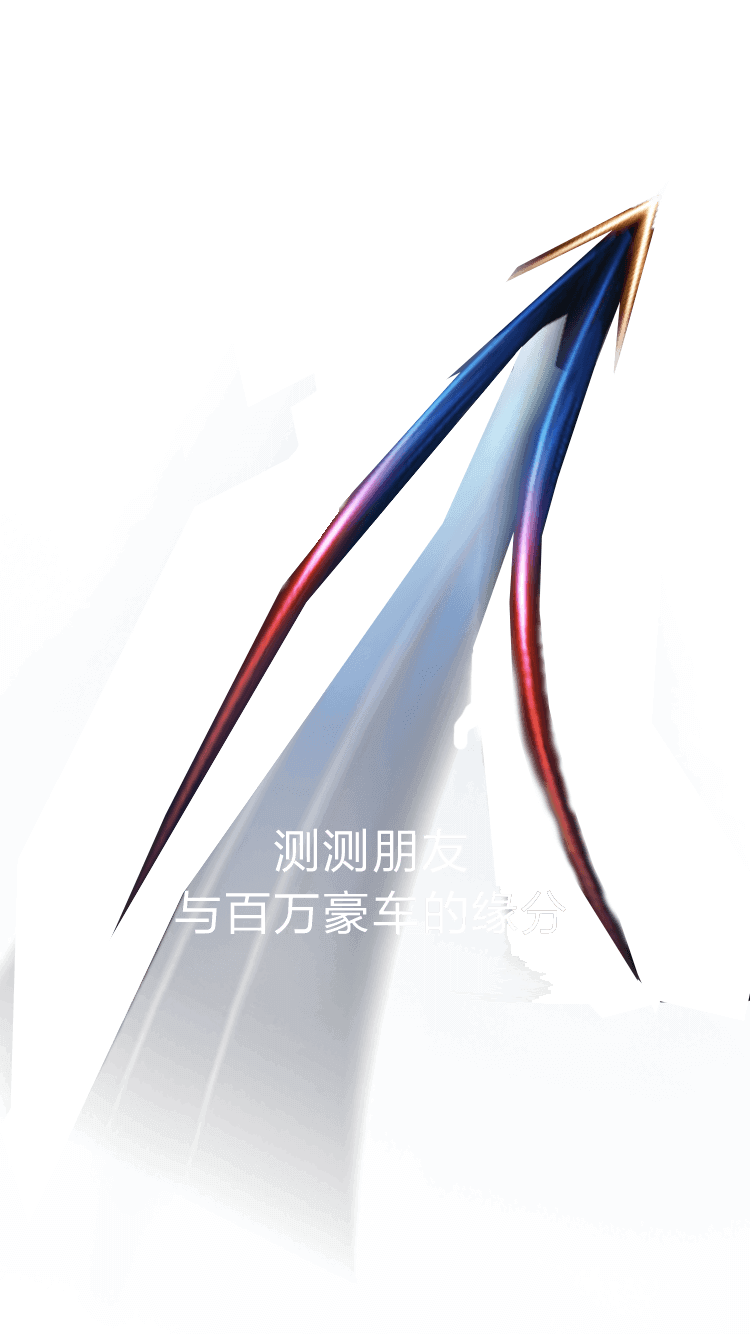
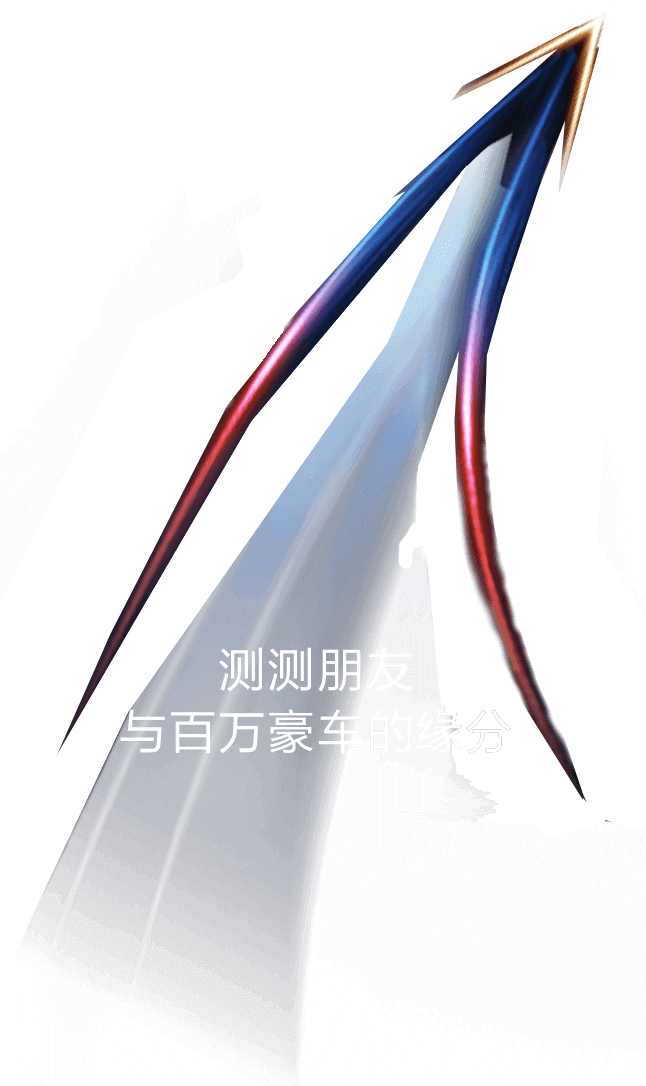
fix:胡曦优化

diff --git a/html/guanzhi/css/index.css b/html/guanzhi/css/index.css
@@ -29,7 +29,7 @@ dl,dd,dt,ul,li,ol{
 }
 
 #load{
-    background-color: gray;
+    background-color: #111;
 }
 .spinner {
     width: 100px;
@@ -227,17 +227,11 @@ dl,dd,dt,ul,li,ol{
     width:100%;height: 100%;
     background-position: center center;
     background-size:cover;
-    /* perspective: 1000px;
-    -webkit-perspective: 1000px;
-    perspective-origin:center;
-    -webkit-perspective-origin:center; */
     }.index_t1{
     position: absolute;
     left: 50%;top:50%;
     margin-left:-310px;
     margin-top:25px;
-    transform: translateZ(10px);
-    -webkit-transform: translateZ(10px);
     z-index: 101;
     }.index_t2{
     position: absolute;
@@ -245,8 +239,6 @@ dl,dd,dt,ul,li,ol{
     margin-top:220px;
     margin-left:-312px;
     z-index: 101;
-    transform: translateZ(10px);
-    -webkit-transform: translateZ(10px);
     }.index_cars{
     top:50%;
     margin-top:-116px;
@@ -256,8 +248,6 @@ dl,dd,dt,ul,li,ol{
     position: absolute;
     left: 0;bottom:10%;right:0;
     z-index: 101;
-    transform: translateZ(10px);
-    -webkit-transform: translateZ(10px);
     }.index_btn{
     display: inline-block;
     font-size: 36px;
@@ -266,21 +256,30 @@ dl,dd,dt,ul,li,ol{
     padding: 0 40px;
     border-radius: 30px;
     margin:0 50px;
-    }.index_route{
+    }.index_route_box{
         position: absolute;
-        display: none;
-        background: url(../img/route.jpg) center;
-        background-size: 100% auto;
-        /* transform-origin: 50% 0%;
-        -webkit-transform-origin: 50% 0%; */
         width: 100%;
         height: 100%;
         margin-top: -75px;
         left: 0;
         top: 50%;
+        perspective: 1000px;
+        -webkit-perspective: 1000px;
+        perspective-origin:center;
+        -webkit-perspective-origin:center;
+    }.index_route{
+        position: absolute;
+        left: 0;
+        top: 0;
+        background: url(../img/route.jpg) center;
+        background-size: 100% auto;
+        transform-origin: 50% 0%;
+        -webkit-transform-origin: 50% 0%;
+        width: 100%;
+        height: 100%;
         animation: route 2s infinite linear;
-        /* transform: rotateX(44deg);
-        -webkit-transform: rotateX(44deg); */
+        transform:rotateX(44deg);
+        -webkit-transform:rotateX(44deg);
 }
 /* 首页规则 */
 .index_rule{
@@ -289,16 +288,16 @@ dl,dd,dt,ul,li,ol{
     text-align: left;
     z-index: 600;
     left: 66px;right:66px;
-    padding: 66px 66px 80px;
+    padding: 80px 66px;
     line-height: 2.2em;
     top:50%;
     transform:translateY(-50%);
     -webkit-transform:-webkit-translateY(-50%);
     /* margin-top:-502px; */
-    background-color: rgba(0,0,0,.6);
+    background-color: rgba(0,0,0,.8);
     }.index_close{
     position: absolute;
-    right: 40px;
+    right: 25px;
     top:25px;
     }.index_rule h3{
     font-size: 25px;
@@ -434,7 +433,7 @@ dl,dd,dt,ul,li,ol{
     }.question_over{
         font-size: 52px;
     }.question_tip{
-        z-index: 101;
+        z-index: 201;
         position: absolute;
         left: 0;right: 0;
         bottom: 5%;

diff --git a/html/guanzhi/js/index.js b/html/guanzhi/js/index.js
@@ -407,20 +407,21 @@ $(document).ready(function(){
                 });
                 function callback(e){
                     if(e.code === '10000'){
+                        console.log(self.info.state)
                         if(self.info.state === 'success'){
                             $.ajax({
                                 url:_ajaxUrl + '/lottery',
                                 dataType:'jsonp',
                                 type:'GET',
                                 data:{
-                                    level:self.info.level + 1,
+                                    level:self.info.level,
                                     phone:data.phone,
                                 },
                                 error:callbackLottery,
                                 success:callbackLottery
                             });
                         }else{
-                            self.renderResult('null');
+                            self.render('null');
                         }
                     }else{
                         self.tips(e.msg);
@@ -497,12 +498,9 @@ $(document).ready(function(){
             var $music = $('#music');
             _music.addEventListener('load',function(){
                 _music.play();
-                //没有自动播放，点击页面播放音乐
-                if(_music.paused){
-                    $(document).one('click',function(){
-                        _music.play();
-                    });
-                }
+            });
+            $(document).one('click',function(){
+                _music.play();
             });
             _music.addEventListener('playing',function(){
                 $('#music').addClass('playing');
@@ -521,7 +519,9 @@ $(document).ready(function(){
         renderIndex:function(){
             var _temp = '<div id="index" class="page">\
                             <div class="index_page" style="background-image:url('+_baseImgUrl+'index_bg.jpg)">\
-                                <div class="index_route"></div>\
+                                <div class="index_route_box">\
+                                    <div class="index_route"></div>\
+                                </div>\
                                 <div class="index_lights lights">\
                                     <img class="light18" src="'+_baseImgUrl+'index_r4.png">\
                                     <img class="light17" src="'+_baseImgUrl+'index_r3.png">\
@@ -687,7 +687,7 @@ $(document).ready(function(){
                         </div>';
             return _temp;
         },
-        renderLottery:function(type,info){
+        renderLottery:function(type,e){
             var _temp = '';
             if(type === 'success'){
                 var lotteryInfo = "";

diff --git a/html/guanzhi/index.html b/html/guanzhi/index.html
@@ -5,8 +5,17 @@
   <meta charset="UTF-8">
   <meta name="viewport" content="width=750, user-scalable=no, maximum-scale=10.0, minimum-scale=0.1">
   <meta http-equiv="X-UA-Compatible" content="ie=edge">
-  <title>观致汽车挑战赛</title>
+  <title>挑战你与百万豪车的缘分</title>
   <link rel="stylesheet" href="./css/index.css">
+  <script>
+    var _hmt = _hmt || [];
+    (function() {
+        var hm = document.createElement("script");
+        hm.src = "https://hm.baidu.com/hm.js?eeaa8a516c91370264450e1eee60e97d";
+        var s = document.getElementsByTagName("script")[0]; 
+        s.parentNode.insertBefore(hm, s);
+    })();
+    </script>
 </head>
 <body>
     <div id="wrap">
